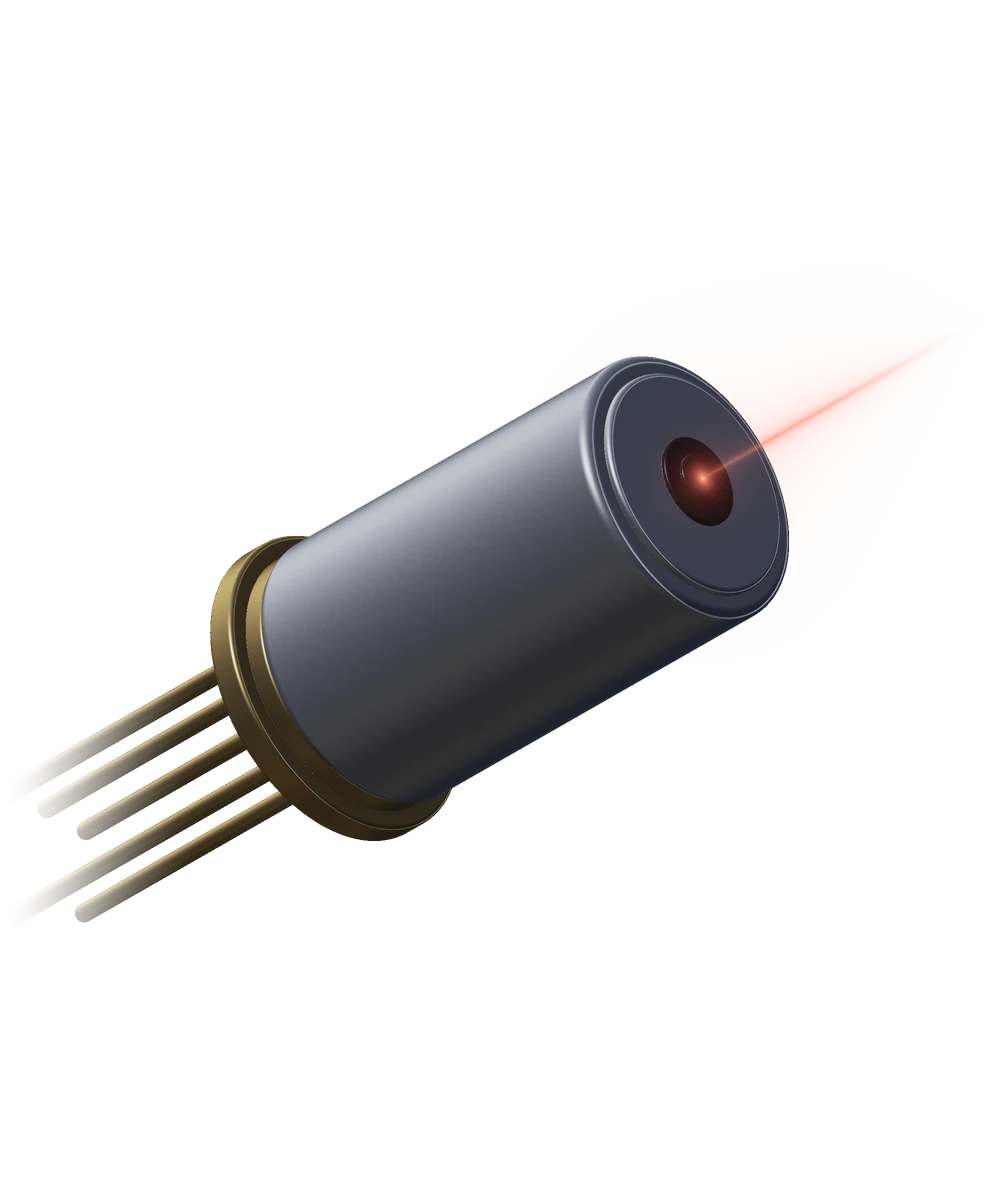
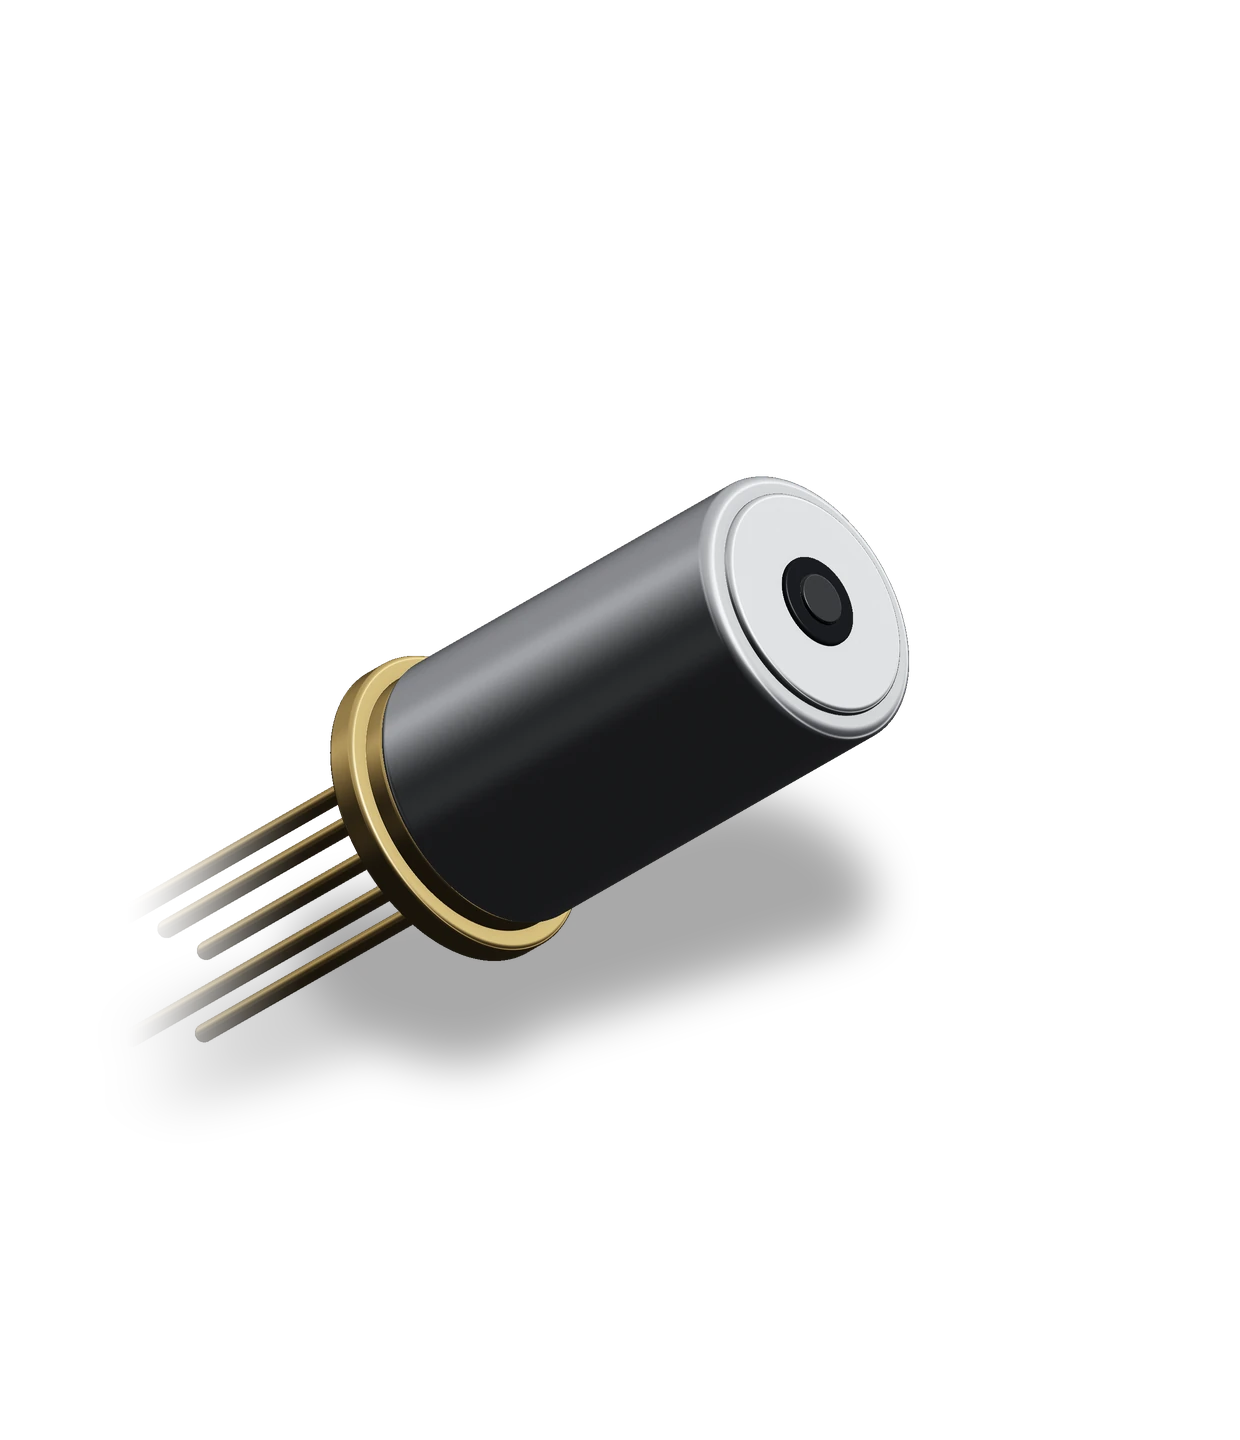
sacherlaser TOP-FIX (B): one-colour H1, studio-lit hero render, no glow or beam
H1 second line no longer italic or accent-coloured. Colours unchanged (accent
matches their site blue). render_b.py re-renders the Micron laser with a
neutral studio environment (key from the page's upper left, fill, rim), no
beam, bloom or emitting spot; _kit/tools/topfix_shadow.py bakes the soft cast
shadow into 120px padding. field.js: the blue ambient glow and warm window
glow are removed, a ~3% neutral ground falloff added, render mirrored so the
window faces the headline. Before/after in _kit/reports/topfix/done.

Claude-Session: https://claude.ai/code/session_014388NGuukaXUUfs7gJG6bC

Changed region(s): [[0.031, 0.2775, 0.899, 0.7708]]

diff --git a/_kit/src/sacherlaser.src.html b/_kit/src/sacherlaser.src.html
@@ -901,6 +901,8 @@ div.mh-row{grid-template-columns:minmax(0,4fr) minmax(0,3fr) minmax(0,5fr) 24px}
 .sls{margin-top:clamp(64px,7vw,104px)}
 .mani .txt{max-width:36ch}
 .ftr .bigsvg{color:var(--bone)}
+/* TOP-FIX 2026-11-27: the hero headline in one colour and one style (no italic accent second line) */
+.hero-h em{font-style:normal;font-weight:inherit;color:inherit}
 </style>
 </head>
 </head>
@@ -1153,7 +1155,7 @@ function unmask(s){if(!s)return;(s.masks||[]).forEach(function(m){m.style.overfl
 /*<R:field>*//* ================= HERO FIELD: a crafted render of Sacher Lasertechnik's real product (HOME_BRIEF update 2c): one Micron laser,
    their ultra stable micro tunable external cavity laser as pictured on sacher-laser.com (a stainless can on a gold TO header with
    gold pins), with a faint beam leaving the output window. Rasterised offline by render.py with real alpha, baked to hero.webp;
-   here it breathes in a slow Ken Burns drift with a faint warm glow at the window. It moves on its own, so no pointer response
+   here it breathes in a slow Ken Burns drift (TOP-FIX B: studio-lit, mirrored, no glow or beam). It moves on its own, so no pointer response
    (CZ). On phones it sits in the top band and fades into the ink above the text (CW). ================= */
 var field=(function(){
   var cv=$("#field"),c=cv.getContext("2d"),dpr=1,w=0,h=0,running=false,raf=0,t0=performance.now(),shown=false;
@@ -1186,17 +1188,16 @@ var field=(function(){
       /* a very slow breath: push in ~3% and drift up a touch over ~44s, eased back and forth (scaled about the image centre) */
       var k=.5-.5*Math.cos(t*Math.PI*2/44),sc=(1+.03*k)*(1+.035*(1-e));
       var dw=G.iw*sc,dh=G.ih*sc,x=G.kx-dw*.5,y=G.ky-dh*.5-k*G.ih*.008-SP.v*G.ih*.05;
-      /* a low deep-blue glow, painted across the WHOLE canvas (never inside the image rect alone), so no edge of the
-         baked render can read as a pasted box (DJ) */
-      var ggx=G.mob?w*.5:G.kx,ggy=G.mob?G.bh*.45:h*.48,ggr=Math.max(w,h)*.7;
-      var ag=c.createRadialGradient(ggx,ggy,0,ggx,ggy,ggr);
-      ag.addColorStop(0,"rgba(14,52,96,"+(.6*e).toFixed(3)+")");ag.addColorStop(.55,"rgba(9,34,66,"+(.3*e).toFixed(3)+")");ag.addColorStop(1,"rgba(7,26,51,0)");
-      c.fillStyle=ag;c.fillRect(0,0,w,h);
-      /* a faint warm glow at the output window, breathing every ~9s */
-      var pu=.5+.5*Math.sin(t*Math.PI*2/9),px=x+dw*LX,py=y+dh*LY,pr=dw*.34;
-      var rg=c.createRadialGradient(px,py,0,px,py,pr);rg.addColorStop(0,"rgba(255,110,90,"+((.06+.04*pu)*e).toFixed(3)+")");rg.addColorStop(1,"rgba(255,110,90,0)");
-      c.fillStyle=rg;c.fillRect(0,0,w,h);
-      c.globalAlpha=e;c.drawImage(img,x,y,dw,dh);c.globalAlpha=1;
+      /* TOP-FIX B 2026-11-27: no glow, beam or halo. A very faint neutral falloff on the ground, up and toward the key
+         side of the laser, at most ~3% brighter than the ink (no colour, no halo hugging the object) */
+      var fx=G.mob?w*.5:x+dw*.40,fy=G.mob?G.bh*.42:y+dh*.36,fr=Math.max(w,h)*.62;
+      var fo=c.createRadialGradient(fx,fy,0,fx,fy,fr);fo.addColorStop(0,"rgba(255,255,255,"+(.03*e).toFixed(4)+")");fo.addColorStop(.55,"rgba(255,255,255,"+(.011*e).toFixed(4)+")");fo.addColorStop(1,"rgba(255,255,255,0)");
+      c.fillStyle=fo;c.fillRect(0,0,w,h);
+      /* the render (render_b.py: studio key from the page's upper left, fill, rim; topfix_shadow.py bakes a soft cast
+         shadow) carries PX/PY of transparent margin, so the laser lands exactly where it sat before; mirrored so the
+         output window faces the headline */
+      var PX=120/1000,PY=120/1200;
+      c.globalAlpha=e;c.save();c.translate(x+dw*(1+PX),y-dh*PY);c.scale(-1,1);c.drawImage(img,0,0,dw*(1+2*PX),dh*(1+2*PY));c.restore();c.globalAlpha=1;
       if(!G.mob){
         /* the headline side stays quiet (DI): an ink wash from the left, a soft top and base */
         var lv=c.createLinearGradient(0,0,G.side+G.cw*.54,0);lv.addColorStop(0,"rgba(4,15,32,.95)");lv.addColorStop(.6,"rgba(4,15,32,.55)");lv.addColorStop(1,"rgba(4,15,32,0)");c.fillStyle=lv;c.fillRect(0,0,w,h);

diff --git a/sacherlaser/index.html b/sacherlaser/index.html
@@ -909,6 +909,8 @@ div.mh-row{grid-template-columns:minmax(0,4fr) minmax(0,3fr) minmax(0,5fr) 24px}
 .sls{margin-top:clamp(64px,7vw,104px)}
 .mani .txt{max-width:36ch}
 .ftr .bigsvg{color:var(--bone)}
+/* TOP-FIX 2026-11-27: the hero headline in one colour and one style (no italic accent second line) */
+.hero-h em{font-style:normal;font-weight:inherit;color:inherit}
 </style>
 </head>
 </head>
@@ -1721,7 +1723,7 @@ function unmask(s){if(!s)return;(s.masks||[]).forEach(function(m){m.style.overfl
 /*<R:field>*//* ================= HERO FIELD: a crafted render of Sacher Lasertechnik's real product (HOME_BRIEF update 2c): one Micron laser,
    their ultra stable micro tunable external cavity laser as pictured on sacher-laser.com (a stainless can on a gold TO header with
    gold pins), with a faint beam leaving the output window. Rasterised offline by render.py with real alpha, baked to hero.webp;
-   here it breathes in a slow Ken Burns drift with a faint warm glow at the window. It moves on its own, so no pointer response
+   here it breathes in a slow Ken Burns drift (TOP-FIX B: studio-lit, mirrored, no glow or beam). It moves on its own, so no pointer response
    (CZ). On phones it sits in the top band and fades into the ink above the text (CW). ================= */
 var field=(function(){
   var cv=$("#field"),c=cv.getContext("2d"),dpr=1,w=0,h=0,running=false,raf=0,t0=performance.now(),shown=false;
@@ -1754,17 +1756,16 @@ var field=(function(){
       /* a very slow breath: push in ~3% and drift up a touch over ~44s, eased back and forth (scaled about the image centre) */
       var k=.5-.5*Math.cos(t*Math.PI*2/44),sc=(1+.03*k)*(1+.035*(1-e));
       var dw=G.iw*sc,dh=G.ih*sc,x=G.kx-dw*.5,y=G.ky-dh*.5-k*G.ih*.008-SP.v*G.ih*.05;
-      /* a low deep-blue glow, painted across the WHOLE canvas (never inside the image rect alone), so no edge of the
-         baked render can read as a pasted box (DJ) */
-      var ggx=G.mob?w*.5:G.kx,ggy=G.mob?G.bh*.45:h*.48,ggr=Math.max(w,h)*.7;
-      var ag=c.createRadialGradient(ggx,ggy,0,ggx,ggy,ggr);
-      ag.addColorStop(0,"rgba(14,52,96,"+(.6*e).toFixed(3)+")");ag.addColorStop(.55,"rgba(9,34,66,"+(.3*e).toFixed(3)+")");ag.addColorStop(1,"rgba(7,26,51,0)");
-      c.fillStyle=ag;c.fillRect(0,0,w,h);
-      /* a faint warm glow at the output window, breathing every ~9s */
-      var pu=.5+.5*Math.sin(t*Math.PI*2/9),px=x+dw*LX,py=y+dh*LY,pr=dw*.34;
-      var rg=c.createRadialGradient(px,py,0,px,py,pr);rg.addColorStop(0,"rgba(255,110,90,"+((.06+.04*pu)*e).toFixed(3)+")");rg.addColorStop(1,"rgba(255,110,90,0)");
-      c.fillStyle=rg;c.fillRect(0,0,w,h);
-      c.globalAlpha=e;c.drawImage(img,x,y,dw,dh);c.globalAlpha=1;
+      /* TOP-FIX B 2026-11-27: no glow, beam or halo. A very faint neutral falloff on the ground, up and toward the key
+         side of the laser, at most ~3% brighter than the ink (no colour, no halo hugging the object) */
+      var fx=G.mob?w*.5:x+dw*.40,fy=G.mob?G.bh*.42:y+dh*.36,fr=Math.max(w,h)*.62;
+      var fo=c.createRadialGradient(fx,fy,0,fx,fy,fr);fo.addColorStop(0,"rgba(255,255,255,"+(.03*e).toFixed(4)+")");fo.addColorStop(.55,"rgba(255,255,255,"+(.011*e).toFixed(4)+")");fo.addColorStop(1,"rgba(255,255,255,0)");
+      c.fillStyle=fo;c.fillRect(0,0,w,h);
+      /* the render (render_b.py: studio key from the page's upper left, fill, rim; topfix_shadow.py bakes a soft cast
+         shadow) carries PX/PY of transparent margin, so the laser lands exactly where it sat before; mirrored so the
+         output window faces the headline */
+      var PX=120/1000,PY=120/1200;
+      c.globalAlpha=e;c.save();c.translate(x+dw*(1+PX),y-dh*PY);c.scale(-1,1);c.drawImage(img,0,0,dw*(1+2*PX),dh*(1+2*PY));c.restore();c.globalAlpha=1;
       if(!G.mob){
         /* the headline side stays quiet (DI): an ink wash from the left, a soft top and base */
         var lv=c.createLinearGradient(0,0,G.side+G.cw*.54,0);lv.addColorStop(0,"rgba(4,15,32,.95)");lv.addColorStop(.6,"rgba(4,15,32,.55)");lv.addColorStop(1,"rgba(4,15,32,0)");c.fillStyle=lv;c.fillRect(0,0,w,h);

diff --git a/_kit/home/sacherlaser/field.js b/_kit/home/sacherlaser/field.js
@@ -1,7 +1,7 @@
 /* ================= HERO FIELD: a crafted render of Sacher Lasertechnik's real product (HOME_BRIEF update 2c): one Micron laser,
    their ultra stable micro tunable external cavity laser as pictured on sacher-laser.com (a stainless can on a gold TO header with
    gold pins), with a faint beam leaving the output window. Rasterised offline by render.py with real alpha, baked to hero.webp;
-   here it breathes in a slow Ken Burns drift with a faint warm glow at the window. It moves on its own, so no pointer response
+   here it breathes in a slow Ken Burns drift (TOP-FIX B: studio-lit, mirrored, no glow or beam). It moves on its own, so no pointer response
    (CZ). On phones it sits in the top band and fades into the ink above the text (CW). ================= */
 var field=(function(){
   var cv=$("#field"),c=cv.getContext("2d"),dpr=1,w=0,h=0,running=false,raf=0,t0=performance.now(),shown=false;
@@ -34,17 +34,16 @@ var field=(function(){
       /* a very slow breath: push in ~3% and drift up a touch over ~44s, eased back and forth (scaled about the image centre) */
       var k=.5-.5*Math.cos(t*Math.PI*2/44),sc=(1+.03*k)*(1+.035*(1-e));
       var dw=G.iw*sc,dh=G.ih*sc,x=G.kx-dw*.5,y=G.ky-dh*.5-k*G.ih*.008-SP.v*G.ih*.05;
-      /* a low deep-blue glow, painted across the WHOLE canvas (never inside the image rect alone), so no edge of the
-         baked render can read as a pasted box (DJ) */
-      var ggx=G.mob?w*.5:G.kx,ggy=G.mob?G.bh*.45:h*.48,ggr=Math.max(w,h)*.7;
-      var ag=c.createRadialGradient(ggx,ggy,0,ggx,ggy,ggr);
-      ag.addColorStop(0,"rgba(14,52,96,"+(.6*e).toFixed(3)+")");ag.addColorStop(.55,"rgba(9,34,66,"+(.3*e).toFixed(3)+")");ag.addColorStop(1,"rgba(7,26,51,0)");
-      c.fillStyle=ag;c.fillRect(0,0,w,h);
-      /* a faint warm glow at the output window, breathing every ~9s */
-      var pu=.5+.5*Math.sin(t*Math.PI*2/9),px=x+dw*LX,py=y+dh*LY,pr=dw*.34;
-      var rg=c.createRadialGradient(px,py,0,px,py,pr);rg.addColorStop(0,"rgba(255,110,90,"+((.06+.04*pu)*e).toFixed(3)+")");rg.addColorStop(1,"rgba(255,110,90,0)");
-      c.fillStyle=rg;c.fillRect(0,0,w,h);
-      c.globalAlpha=e;c.drawImage(img,x,y,dw,dh);c.globalAlpha=1;
+      /* TOP-FIX B 2026-11-27: no glow, beam or halo. A very faint neutral falloff on the ground, up and toward the key
+         side of the laser, at most ~3% brighter than the ink (no colour, no halo hugging the object) */
+      var fx=G.mob?w*.5:x+dw*.40,fy=G.mob?G.bh*.42:y+dh*.36,fr=Math.max(w,h)*.62;
+      var fo=c.createRadialGradient(fx,fy,0,fx,fy,fr);fo.addColorStop(0,"rgba(255,255,255,"+(.03*e).toFixed(4)+")");fo.addColorStop(.55,"rgba(255,255,255,"+(.011*e).toFixed(4)+")");fo.addColorStop(1,"rgba(255,255,255,0)");
+      c.fillStyle=fo;c.fillRect(0,0,w,h);
+      /* the render (render_b.py: studio key from the page's upper left, fill, rim; topfix_shadow.py bakes a soft cast
+         shadow) carries PX/PY of transparent margin, so the laser lands exactly where it sat before; mirrored so the
+         output window faces the headline */
+      var PX=120/1000,PY=120/1200;
+      c.globalAlpha=e;c.save();c.translate(x+dw*(1+PX),y-dh*PY);c.scale(-1,1);c.drawImage(img,0,0,dw*(1+2*PX),dh*(1+2*PY));c.restore();c.globalAlpha=1;
       if(!G.mob){
         /* the headline side stays quiet (DI): an ink wash from the left, a soft top and base */
         var lv=c.createLinearGradient(0,0,G.side+G.cw*.54,0);lv.addColorStop(0,"rgba(4,15,32,.95)");lv.addColorStop(.6,"rgba(4,15,32,.55)");lv.addColorStop(1,"rgba(4,15,32,0)");c.fillStyle=lv;c.fillRect(0,0,w,h);

diff --git a/_kit/home/sacherlaser/extra.css b/_kit/home/sacherlaser/extra.css
@@ -268,3 +268,5 @@ div.mh-row{grid-template-columns:minmax(0,4fr) minmax(0,3fr) minmax(0,5fr) 24px}
 .sls{margin-top:clamp(64px,7vw,104px)}
 .mani .txt{max-width:36ch}
 .ftr .bigsvg{color:var(--bone)}
+/* TOP-FIX 2026-11-27: the hero headline in one colour and one style (no italic accent second line) */
+.hero-h em{font-style:normal;font-weight:inherit;color:inherit}

diff --git a/_kit/home/sacherlaser/render_b.py b/_kit/home/sacherlaser/render_b.py
@@ -1,0 +1,177 @@
+#!/usr/bin/env python3
+"""VARIANT B (TOP-FIX 2026-11-27): same geometry as render.py, lit as a studio product shot: one soft key from the
+page's upper left (field.js draws this render MIRRORED so the output window faces the headline, so the key sits upper
+right here), a low neutral fill, a dim rim on the far edge, neutral colour only; no beam, no bloom, no emitting spot.
+The soft cast shadow and padding are added by _kit/tools/topfix_shadow.py.
+Sacher Lasertechnik hero (HOME_BRIEF update 2c: a crafted render of the firm's real product): one Micron laser, the
+ultra stable micro tunable external cavity laser shown on sacher-laser.com (stainless can on a gold TO header with gold pins),
+with a faint beam from the output window. Orthographic sphere tracing of SDFs in numpy; studio reflections; saved with ALPHA
+(no ground of its own, DJ/DP). Usage: python3 render.py W H out.png [SS] [procs]"""
+import sys, math, numpy as np
+from multiprocessing import Pool
+from PIL import Image
+W = int(sys.argv[1]) if len(sys.argv) > 1 else 500
+H = int(sys.argv[2]) if len(sys.argv) > 2 else 600
+OUT = sys.argv[3] if len(sys.argv) > 3 else 'hero.png'
+SS = int(sys.argv[4]) if len(sys.argv) > 4 else 1
+NP = int(sys.argv[5]) if len(sys.argv) > 5 else 4
+FW, FH = W, H; W, H = W*SS, H*SS
+YS = 0.88; XS = YS*W/H
+def nrm(v): return v/np.linalg.norm(v, axis=-1, keepdims=True)
+def sm(a, b, x): x = np.clip((x-a)/(b-a), 0, 1); return x*x*(3-2*x)
+
+# laser axis: emitting face up-right and toward the viewer, so the output window reads; pins trail back down-left
+A = nrm(np.array([0.70, 0.40, 0.60]))
+E1 = nrm(np.cross(A, np.array([0, 0, 1.0]))); E2 = np.cross(A, E1)
+O = np.array([0.02, 0.02, 0.0])
+#  materials: 2 steel can (bead-blasted), 6 gold header, 7 gold pins, 5 dark front ring, 8 window glass
+PARTS = [
+    (-0.400, -0.352, 0.236, 0.236, 0.008, 6),  # TO header flange
+    (-0.356, -0.318, 0.206, 0.206, 0.006, 6),  # header step
+    (-0.322, 0.372, 0.212, 0.212, 0.018, 2),   # the steel can
+    (0.362, 0.384, 0.176, 0.176, 0.008, 9),    # polished front cap
+    (0.376, 0.392, 0.070, 0.070, 0.004, 5),    # dark aperture ring
+    (0.384, 0.398, 0.040, 0.040, 0.003, 8),    # output window
+]
+TIP = O + A*0.398
+PINS = [(0.0, 0.0)] + [(0.118*math.cos(k*math.pi/2+0.5), 0.118*math.sin(k*math.pi/2+0.5)) for k in range(4)]
+PIN_U0, PIN_U1, PIN_R = -1.02, -0.38, 0.0135
+
+def part_sd(q_u, rho, th, p):
+    u0, u1, r0, r1, rr, m = p
+    r = np.full_like(q_u, r0)
+    c = 0.5*(u0+u1); h = 0.5*(u1-u0)
+    dx = rho-(r-rr); dy = np.abs(q_u-c)-(h-rr)
+    out = np.hypot(np.maximum(dx, 0), np.maximum(dy, 0))
+    return (out+np.minimum(np.maximum(dx, dy), 0)-rr)*0.9
+
+def pins_sd(q_u, qp):
+    x = qp@E1; y = qp@E2
+    best = np.full(len(q_u), 9.0)
+    for (px, py) in PINS:
+        uu = np.clip(q_u, PIN_U0+(0.12 if px == 0 else 0.0), PIN_U1)
+        d = np.sqrt((x-px)**2+(y-py)**2+(q_u-uu)**2)-PIN_R
+        best = np.minimum(best, d)
+    return best
+
+def scene(p, want=False):
+    q = p-O; qu = q@A; qp = q-qu[:, None]*A[None]
+    rho = np.linalg.norm(qp, axis=1); th = np.arctan2(qp@E2, qp@E1)
+    best = np.full(len(p), 9.0); mat = np.zeros(len(p), int)
+    for pr in PARTS:
+        d = part_sd(qu, rho, th, pr)
+        sel = d < best; best = np.where(sel, d, best); mat = np.where(sel, pr[5], mat)
+    dp = pins_sd(qu, qp)
+    sel = dp < best; best = np.where(sel, dp, best); mat = np.where(sel, 7, mat)
+    if want: return best, mat, qu, qu, th
+    return best
+
+KEY = nrm(np.array([0.60, 0.62, 0.50])); FILL = nrm(np.array([-0.5, -0.1, 0.85]))
+V = np.array([0, 0, 1.0])
+
+def env(d):
+    """neutral studio the steel and gold reflect: a near-black surround, an overhead soft box, the KEY strip on the
+    headline side of the page (render right, mirrored to page left), a dim neutral rim strip on the far side, a low
+    frontal fill, a dark floor. No colour."""
+    x, y, z = d[:, 0], d[:, 1], d[:, 2]
+    t = np.clip(y*0.5+0.5, 0, 1)
+    base = (0.025+0.05*t**2)[:, None]*np.ones(3)
+    top = (sm(-0.10, 0.80, y)*0.95)[:, None]*np.array([0.95, 0.95, 0.94])
+    key = (np.exp(-(((x-0.62)/0.30)**2+((y-0.45)/0.40)**2))*1.45)[:, None]*np.array([1.0, 0.99, 0.97])
+    keys = (np.exp(-((x-0.72)/0.08)**2)*sm(-0.98, -0.4, y)*1.3)[:, None]*np.ones(3)
+    rim = (np.exp(-((x+0.85)/0.10)**2)*sm(-0.6, 0.2, y))[:, None]*np.full(3, 0.40)
+    fill = (np.exp(-((y-0.05)/0.25)**2)*sm(0.4, 0.95, z))[:, None]*np.full(3, 0.14)
+    return base+top+key+keys+rim+fill
+
+def normal(p):
+    e = 0.0007; ex = np.array([e, 0, 0]); ey = np.array([0, e, 0]); ez = np.array([0, 0, e])
+    return nrm(np.stack([scene(p+ex)-scene(p-ex), scene(p+ey)-scene(p-ey), scene(p+ez)-scene(p-ez)], 1))
+
+def segdist2(x, y, a, b):
+    vx, vy = b[0]-a[0], b[1]-a[1]
+    h = np.clip(((x-a[0])*vx+(y-a[1])*vy)/(vx*vx+vy*vy), 0, 1)
+    return np.hypot(x-a[0]-vx*h, y-a[1]-vy*h), h
+
+def shade(x, y):
+    n = len(x); L = np.zeros((n, 3)); a = np.zeros(n)
+    ro = np.stack([x, y, np.full(n, 2.5)], 1)
+    t = np.zeros(n); hit = np.zeros(n, bool); alive = np.ones(n, bool)
+    for it in range(160):
+        idx = np.nonzero(alive)[0]
+        if not len(idx): break
+        p = ro[idx].copy(); p[:, 2] -= t[idx]
+        d = scene(p)
+        hh = d < 0.0003; hit[idx[hh]] = True; alive[idx[hh]] = False
+        t[idx] += np.maximum(d, 0.0004)
+        alive[idx[t[idx] > 5.0]] = False
+    hi = np.nonzero(hit)[0]
+    if len(hi):
+        p = ro[hi].copy(); p[:, 2] -= t[hi]
+        _, mat, sv, qu, th = scene(p, True)
+        nn = normal(p)
+        ndv = np.clip(nn@V, 0, 1); fres = (1-ndv)**5
+        dk = np.clip(nn@KEY, 0, 1); df = np.clip(nn@FILL, 0, 1)
+        hv = nrm(KEY+V); spec = np.clip(nn@hv, 0, 1)
+        R = 2*(nn@V)[:, None]*nn-V[None]
+        ev = env(R)
+        # soft ambient occlusion: march a little along the normal
+        ao = np.ones(len(hi))
+        for k, s in enumerate((0.012, 0.03, 0.06)):
+            ao -= np.clip(s-scene(p+nn*s), 0, 1)*(4.0/(k+1))
+        ao = np.clip(ao, 0.25, 1)
+        col = np.zeros((len(hi), 3))
+        rng = np.random.default_rng(7)
+        # steel can: bead-blasted stainless, a soft satin sheen with the studio smeared across it
+        m = (mat == 2) | (mat == 9)
+        grain = 1+0.035*np.sin(qu*2300+th*310)*np.sin(th*1700)
+        pol = np.where(mat == 9, 1.25, 1.0)
+        c = ev*(0.68+0.35*fres)[:, None]*np.array([0.93, 0.95, 0.99])[None]*pol[:, None]
+        c += (spec**30*0.55+spec**6*0.10)[:, None]
+        c += np.array([0.20, 0.21, 0.23])[None]*(0.15+0.85*dk)[:, None]
+        c *= (ao*grain)[:, None]
+        col[m] = c[m]
+        # gold: TO header and pins, polished, warm reflections
+        for mm in (6, 7):
+            m = mat == mm
+            gold = np.array([1.0, 0.74, 0.34])
+            c = ev*(0.75+0.25*fres)[:, None]*gold[None]
+            c += (spec**70*1.3+spec**12*0.12)[:, None]*np.array([1.0, 0.9, 0.7])[None]
+            c += gold[None]*0.16*(0.2+0.8*dk)[:, None]
+            c *= ao[:, None]
+            col[m] = c[m]
+        # dark anodised front ring
+        m = mat == 5
+        c = np.array([0.035, 0.04, 0.05])[None]*(0.3+dk)[:, None]+(spec**50*0.45)[:, None]+ev*0.18*fres[:, None]
+        col[m] = c[m]
+        # output window: dark coated glass, a cool reflection and the emitting spot
+        m = mat == 8
+        c = ev*(0.10+0.6*fres)[:, None]*np.array([0.80, 0.84, 0.90])[None]+(spec**120*1.2)[:, None]
+        col[m] = c[m]
+        af = np.ones(len(hi))
+        L[hi] = col; a[hi] = af
+    return L, a
+
+def run(args):
+    y0, y1 = args
+    PX, PY = np.meshgrid(np.arange(W), np.arange(y0, y1))
+    x = ((PX+0.5)/W*2-1)*XS; y = (1-(PY+0.5)/H*2)*YS
+    L, a = shade(x.ravel(), y.ravel())
+    ex = np.minimum(XS-np.abs(x.ravel()), YS-np.abs(y.ravel()))
+    wnd = sm(0.0, 0.30, ex)
+    Rgb = 1-np.exp(-L*1.2)
+    Rgb = Rgb**(1/1.25)
+    Rgb *= wnd[:, None]; a = a*wnd
+    al = np.maximum(a, Rgb.max(1))
+    return np.concatenate([Rgb, al[:, None]], 1).reshape(y1-y0, W, 4)
+
+if __name__ == '__main__':
+    import time; t0 = time.time()
+    step = max(8, H//(NP*10))
+    bands = [(y, min(H, y+step)) for y in range(0, H, step)]
+    with Pool(NP) as pool: rows = pool.map(run, bands)
+    img = np.concatenate(rows, 0)
+    pre = img[..., :3]; al = img[..., 3:]
+    rgb = np.where(al > 1e-4, pre/np.maximum(al, 1e-4), 0)
+    im = Image.fromarray((np.clip(np.concatenate([rgb, al], -1), 0, 1)*255).astype(np.uint8), 'RGBA')
+    if SS != 1: im = im.resize((FW, FH), Image.LANCZOS)
+    im.save(OUT); print('done', round(time.time()-t0, 1))

diff --git a/_kit/tools/topfix_shadow.py b/_kit/tools/topfix_shadow.py
@@ -1,0 +1,30 @@
+#!/usr/bin/env python3
+"""TOP-FIX B (2026-11-27) helper, the same cast shadow as _kit/home/teknomedical-b/render_b.py, as a post step:
+takes a hero render with real alpha, adds PAD px of transparent margin on every side and bakes a very faint, wide,
+soft cast shadow on an implied surface below (the silhouette squashed toward the surface, pushed a little away from
+the key, very wide blur, low opacity); the object is composited over it unchanged.
+Usage: python3 topfix_shadow.py in.png out.webp PAD [dx_frac] [opacity] [drop_frac] [squash] [q]
+  dx_frac: horizontal push in RENDER space (+ = right). The key comes from the headline side of the page, so the shadow
+  falls away from it: pass a negative value when field.js mirrors the render (as Tekno), positive when it doesn't."""
+import sys, numpy as np
+from PIL import Image, ImageFilter
+src, out, PAD = sys.argv[1], sys.argv[2], int(sys.argv[3])
+DX = float(sys.argv[4]) if len(sys.argv) > 4 else -0.035
+OP = float(sys.argv[5]) if len(sys.argv) > 5 else 0.34
+DROP = float(sys.argv[6]) if len(sys.argv) > 6 else 0.40
+SQ = float(sys.argv[7]) if len(sys.argv) > 7 else 0.55
+Q = int(sys.argv[8]) if len(sys.argv) > 8 else 90
+im = Image.open(src).convert('RGBA'); FW, FH = im.size
+arr = np.asarray(im, float)/255; img, a = arr[..., :3], arr[..., 3]
+FWp, FHp = FW+2*PAD, FH+2*PAD
+sil = Image.fromarray((a*255).astype(np.uint8), 'L')
+sh = Image.new('L', (FWp, FHp), 0)
+sh.paste(sil.resize((FW, max(1, int(FH*SQ)))), (PAD+int(FW*DX), PAD+int(FH*DROP)))
+sh = sh.filter(ImageFilter.GaussianBlur(FW*0.022))
+sha = np.asarray(sh, float)/255*OP
+obj = np.zeros((FHp, FWp, 3)); oa = np.zeros((FHp, FWp))
+obj[PAD:PAD+FH, PAD:PAD+FW] = img; oa[PAD:PAD+FH, PAD:PAD+FW] = a
+outa = oa+sha*(1-oa)
+outc = np.where(outa[..., None] > 0, obj*oa[..., None]/np.maximum(outa[..., None], 1e-6), 0)
+Image.fromarray(np.dstack([outc*255, outa*255]).clip(0, 255).astype(np.uint8), 'RGBA').save(out, quality=Q, method=6)
+print('padded', FWp, FHp)
